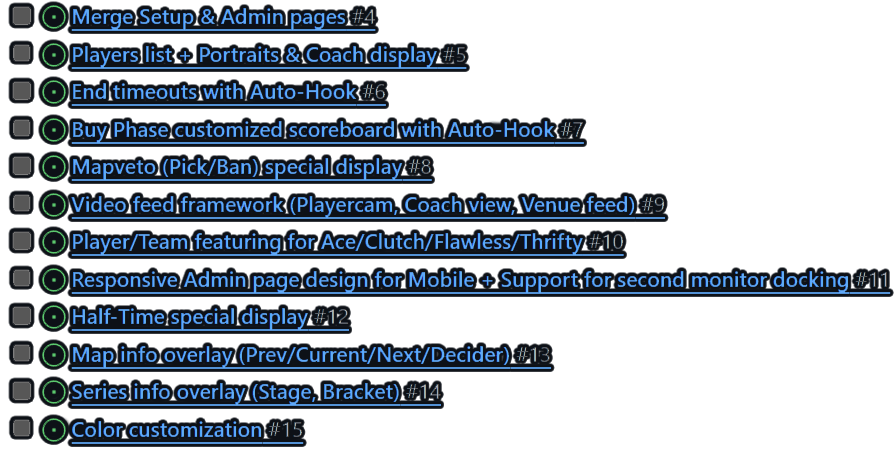
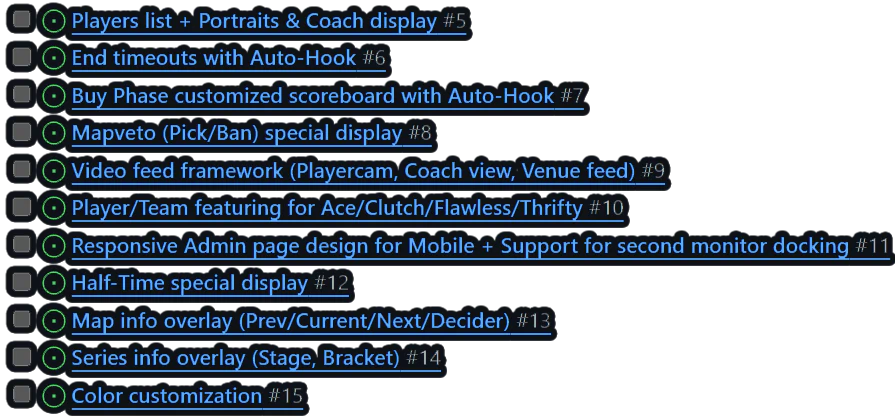
Update notations after merging Setup & Admin pages

diff --git a/server.js b/server.js
@@ -176,7 +176,5 @@ const PORT = 7777;
 server.listen(PORT, () => {
     console.log(`Server is now running on localhost:${PORT}`);
     console.log(`- Admin page: http://localhost:${PORT}/admin.html`);
-    console.log(`- Match setup page: http://localhost:${PORT}/setup.html`);
-    console.log(' ');
     console.log(`- Overlay: http://localhost:${PORT}/overlay.html`);
 });

diff --git a/README.md b/README.md
@@ -14,7 +14,8 @@ Currently, due to VALORANT Client's limitations, there's no automatic game feeds
 [<img width="670px" alt="Image" src="https://github.com/rvneXe/RAVE-Valorant-Overlay/blob/main/screenshots/tasks.webp?raw=true"/>](https://github.com/rvnexe/RAVE-Valorant-Overlay/issues)
 
 ## Screenshots
-<img width="1134" alt="Image" src="https://raw.githubusercontent.com/rvneXe/RAVE-Valorant-Overlay/refs/heads/main/screenshots/heading.png"/>
+<img width="1134" alt="Image" src="screenshots/heading.png"/>
+<img width="1134" alt="Image" src="screenshots/admin.png"/>
 <details><summary>Click to view more</summary>
 
 <img width="1134" alt="Image" src="https://github.com/rvneXe/RAVE-Valorant-Overlay/blob/main/screenshots/timeout.png?raw=true"/>
@@ -57,14 +58,13 @@ npm install
 node server.js
 ```
 
-2.  The overlay server is started now. Use these addresses to access Admin, Setup, and the Overlay itself:
+2.  The overlay server is started now. Use these addresses to access Admin Page and the Overlay itself:
     
 
 ```
 Admin: localhost:7777/admin.html
-Match setup: localhost:7777/setup.html
 
-The Overlay itself: localhost:7777/overlay.html
+Overlay: localhost:7777/overlay.html
 ```
 
 ### Adding team logos
